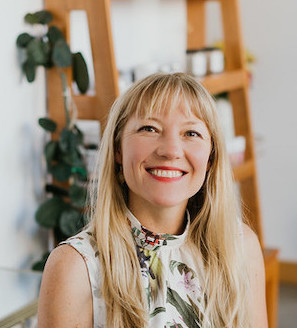
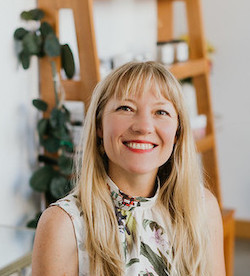
Resize profile portrait

diff --git a/css/styles.css b/css/styles.css
@@ -98,21 +98,14 @@ input.value {
   color: #808080;
 }
 
-.profile__portrait {
-  float: left;
-  width: 250px;
-  margin-right: 20px;
-  border-radius: 50%;
-}
-
 .page-header {
   display: flex;
   width: 100%;
-  padding: 20px;
+  padding: 15px;
 }
 
 .page-header__item {
-  flex: 0 1 200px;
+  flex: 1 1 200px;
 }
 
 .page-header__item:last-child {
@@ -134,8 +127,16 @@ input.value {
 }
 
 .profile {
-  max-width: 700px;
+  max-width: 900px;
   margin: 0 auto;
+  text-align: center;
+}
+
+.profile__portrait {
+  float: left;
+  width: 250px;
+  margin-right: 20px;
+  border-radius: 50%;
 }
 
 .about {

diff --git a/index.html b/index.html
@@ -37,9 +37,7 @@
     <div class="profile">
       <img src="img/sarah-long-portrait.jpg" class="profile__portrait" alt="Sarah Long portrait">
       <h1>Sarah Long</h1>
-      <h2>Web Developer</h2>
-      <h3>Portland, OR</h3>
-      <br>
+      <p>I am a web developer from Portland, Oregon</p>
       <a href="https://github.com/Long2589" target="_blank">Click here to check out some of my code.</a>
     </div>
 
